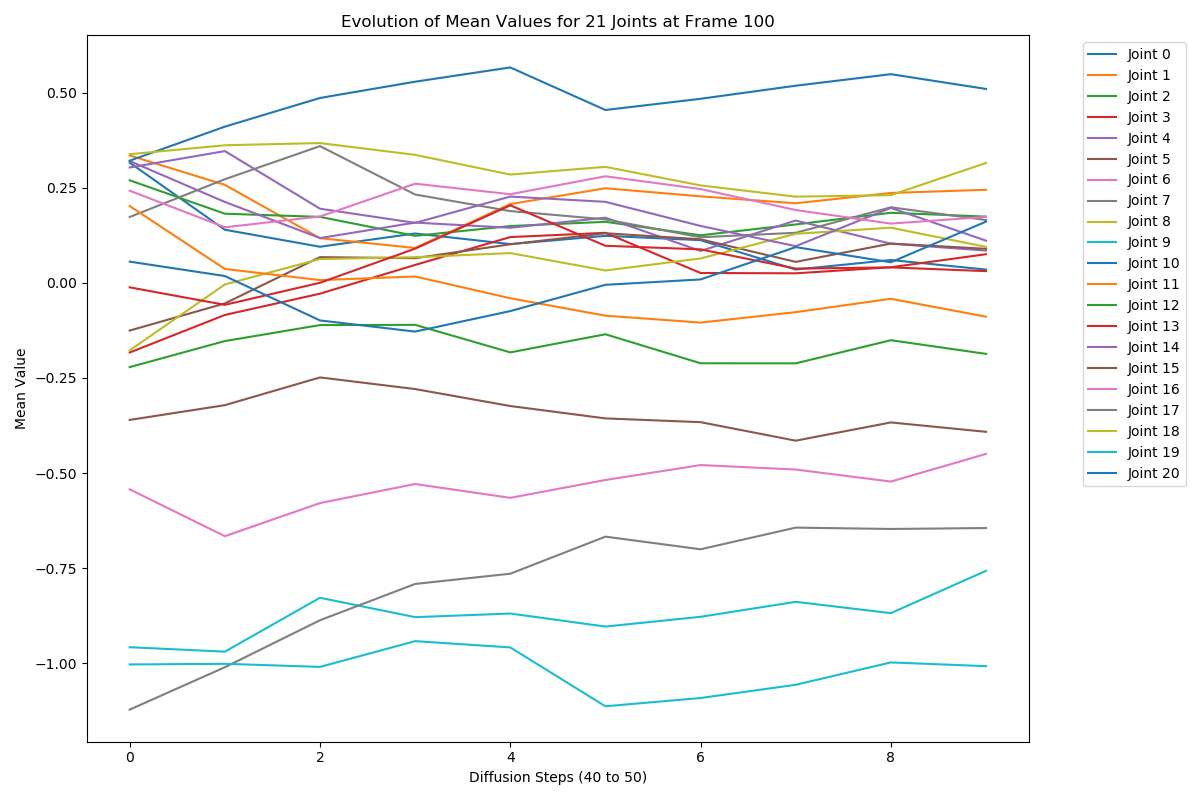
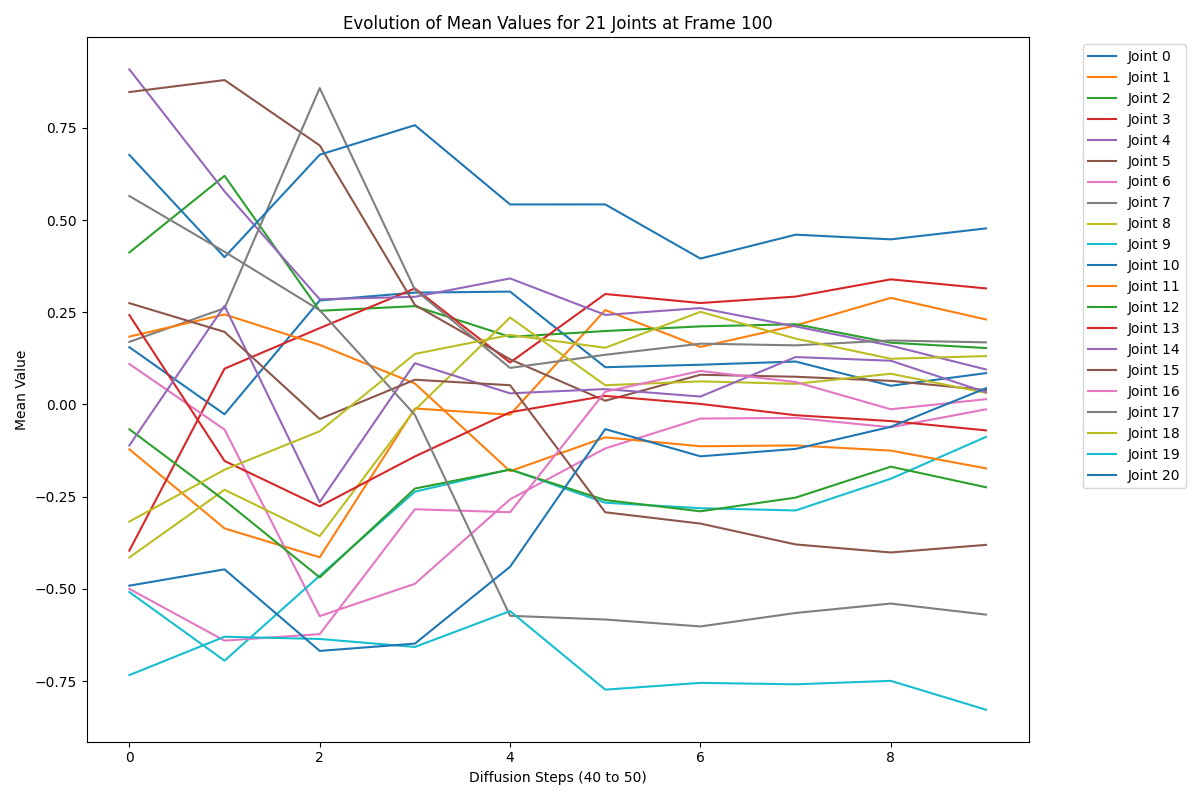
update on mean_fluctuations

diff --git a/sample/generate_w_motion_input.py b/sample/generate_w_motion_input.py
@@ -158,7 +158,7 @@ def main():
         sample_fn = diffusion.p_sample_loop
 
         if args.learning_var:
-            sample, log_variance, mean_fluctuations, log_variance_fluctuations= sample_fn(
+            sample, log_variance, mean_fluctuations= sample_fn(
                 model,
                 (args.batch_size, model.njoints, model.nfeats, max_frames),
                 clip_denoised=False,
@@ -202,30 +202,20 @@ def main():
         if model.data_rep == 'hml_vec':
             n_joints = 22 if sample.shape[1] == 263 else 21 # sample.shape = [bs, 263, 1, 196]
             sample = data.dataset.t2m_dataset.inv_transform(sample.cpu().permute(0, 2, 3, 1)).float() # [bs, 1, 196, 263]
-            data = sample
             sample = recover_from_ric(sample, n_joints) # [bs, 1, 196, 22, 3]
             sample = sample.view(-1, *sample.shape[2:]).permute(0, 2, 3, 1) # [bs, 22, 3, 196]
             if args.learning_var:
-                log_variance = log_variance.cpu().permute(0, 2, 3, 1).float()
-                uncertainty_factor = compute_uncertainty_factor(log_variance, n_joints)
-                print(f"uncertainty_factor shape: {uncertainty_factor.shape}")
-                exit()
-
                 log_variance = data.dataset.t2m_dataset.inv_transform(log_variance.cpu().permute(0, 2, 3, 1)).float() # [bs, 1, 196, 263]
-                log_variance = log_variance[..., 4:(n_joints - 1) * 3 + 4] # [bs, 1, 196, 63]
-                log_variance = log_variance.view(log_variance.shape[:-1] + (-1, 3)) # [bs, 1, 196, 21, 3]
-                # log_variance = recover_from_ric(log_variance, n_joints)
-                log_variance = log_variance.view(-1, *log_variance.shape[2:]).permute(0, 2, 3, 1) # [bs, 21, 3, 196]
-                # print(log_variance)
-                mean_fluctuations = data.dataset.t2m_dataset.inv_transform(mean_fluctuations.cpu().permute(0, 2, 3, 1)).float() # [bs, 1, 196, 263]
-                mean_fluctuations = mean_fluctuations[..., 4:(n_joints - 1) * 3 + 4] # [bs, 1, 196, 63]
-                mean_fluctuations = mean_fluctuations.view(mean_fluctuations.shape[:-1] + (-1, 3)) # [bs, 1, 196, 21, 3]
-                mean_fluctuations = mean_fluctuations.view(-1, *mean_fluctuations.shape[2:]).permute(0, 2, 3, 1) # [bs, 21, 3, 196]
+                uncertainty_factor = compute_uncertainty_factor(log_variance, n_joints) # [bs, 22, 196]
+                # log_variance = log_variance[..., 4:(n_joints - 1) * 3 + 4] # [bs, 1, 196, 63]
+                # log_variance = log_variance.view(log_variance.shape[:-1] + (-1, 3)) # [bs, 1, 196, 21, 3]
+                # log_variance = log_variance.view(-1, *log_variance.shape[2:]).permute(0, 2, 3, 1) # [bs, 21, 3, 196]
 
-                log_variance_fluctuations = data.dataset.t2m_dataset.inv_transform(log_variance_fluctuations.cpu().permute(0, 2, 3, 1)).float() # [bs, 1, 196, 263]
-                log_variance_fluctuations = log_variance_fluctuations[..., 4:(n_joints - 1) * 3 + 4] # [bs, 1, 196, 63]
-                log_variance_fluctuations = log_variance_fluctuations.view(log_variance_fluctuations.shape[:-1] + (-1, 3)) # [bs, 1, 196, 21, 3]
-                log_variance_fluctuations = log_variance_fluctuations.view(-1, *log_variance_fluctuations.shape[2:]).permute(0, 2, 3, 1) # [bs, 21, 3, 196]
+                mean_fluctuations = mean_fluctuations.cpu().permute(0, 2, 3, 1).float() # [bs, 1, 196, 263]
+                uncertainty_factor_1 = compute_uncertainty_factor(mean_fluctuations, n_joints) # [bs, 22, 196]
+                # mean_fluctuations = mean_fluctuations[..., 4:(n_joints - 1) * 3 + 4] # [bs, 1, 196, 63]
+                # mean_fluctuations = mean_fluctuations.view(mean_fluctuations.shape[:-1] + (-1, 3)) # [bs, 1, 196, 21, 3]
+                # mean_fluctuations = mean_fluctuations.view(-1, *mean_fluctuations.shape[2:]).permute(0, 2, 3, 1) # [bs, 21, 3, 196]
 
             input_motions_reshaped = data.dataset.t2m_dataset.inv_transform(input_motions.cpu().permute(0, 2, 3, 1)).float()
             input_motions_reshaped = recover_from_ric(input_motions_reshaped, n_joints)
@@ -303,8 +293,9 @@ def main():
         all_motions.append(sample.cpu().numpy())
         all_lengths.append(model_kwargs['y']['lengths'].cpu().numpy())
         if args.learning_var:
-            all_variances.append(log_variance.cpu().numpy())
-            all_mean_fluctuations.append(mean_fluctuations.cpu().numpy())
+            # all_variances.append(log_variance.cpu().numpy())
+            all_variances.append(uncertainty_factor.cpu().numpy())
+            all_mean_fluctuations.append(uncertainty_factor_1.cpu().numpy())
         print(f"created {len(all_motions) * args.batch_size} samples")
 
     # mpjpe = sum(mean_errors) / len(mean_errors) if mean_errors else float('inf')

diff --git a/diffusion/gaussian_diffusion.py b/diffusion/gaussian_diffusion.py
@@ -680,7 +680,6 @@ class GaussianDiffusion:
         """
         final = None
         means = []
-        log_variances = []
         if dump_steps is not None:
             dump = []
 
@@ -707,42 +706,38 @@ class GaussianDiffusion:
             if dump_steps is not None and i in dump_steps:
                 dump.append(deepcopy(sample["sample"]))
             final = sample
-            if i >= 40:  # Assuming 50 steps in total
+            if i >= 20 and (i % 5 == 0 or i > 45):  # Track every 5th step from 20 to 45, and all steps from 45 onwards
                 means.append(sample["sample"].detach().cpu())
-                log_variances.append(sample["log_variance"].detach().cpu())
-
         if dump_steps is not None:
             return dump
         if self.model_var_type in [ModelVarType.LEARNED, ModelVarType.LEARNED_RANGE]:
-            # Stack collected tensors
             means = torch.stack(means, dim=0)  # Shape: [10, bs, 263, 1, 196]
-            log_variances = torch.stack(log_variances, dim=0)  # Shape: [10, bs, 263, 1, 196]
 
             # UNCOMMENT THIS TO PLOT MEAN EVOLUTION
-            # means = means.cpu().permute(0, 1, 3, 4, 2).float() # [10, bs, 1, 196, 263]
-            # means = means[..., 4:(22 - 1) * 3 + 4] # [10, bs, 1, 196, 63]
-            # means = means.view(means.shape[:-1] + (-1, 3)) # [10, bs, 1, 196, 21, 3]
-            # means = means.view(10, -1, *means.shape[3:]).permute(0, 1, 3, 4, 2) # [10, bs, 21, 3, 196]
-            # means = means.mean(dim=3) # [10, bs, 21, 196]
-            # means_frame_100 = means[:, :, :, 99]  # Shape: [10, bs, 21]
-            # plt.figure(figsize=(12, 8))
-            # for joint in range(21):
-            #     plt.plot(range(10), means_frame_100[:, 0, joint], label=f'Joint {joint}')
-            # plt.xlabel('Diffusion Steps (40 to 50)')
-            # plt.ylabel('Mean Value')
-            # plt.title('Evolution of Mean Values for 21 Joints at Frame 100')
-            # plt.legend(bbox_to_anchor=(1.05, 1), loc='upper left')
-            # plt.tight_layout()
-            # plot_path = 'mean_evolution_plot.png'
-            # plt.savefig(plot_path)
-            # plt.close()
+            means = means.cpu().permute(0, 1, 3, 4, 2).float() # [10, bs, 1, 196, 263]
+            means = means[..., 4:(22 - 1) * 3 + 4] # [10, bs, 1, 196, 63]
+            means = means.view(means.shape[:-1] + (-1, 3)) # [10, bs, 1, 196, 21, 3]
+            means = means.view(10, -1, *means.shape[3:]).permute(0, 1, 3, 4, 2) # [10, bs, 21, 3, 196]
+            means = means.mean(dim=3) # [10, bs, 21, 196]
+            means_frame_100 = means[:, :, :, 99]  # Shape: [10, bs, 21]
+            plt.figure(figsize=(12, 8))
+            for joint in range(21):
+                plt.plot(range(10), means_frame_100[:, 0, joint], label=f'Joint {joint}')
+            plt.xlabel('Diffusion Steps (40 to 50)')
+            plt.ylabel('Mean Value')
+            plt.title('Evolution of Mean Values for 21 Joints at Frame 100')
+            plt.legend(bbox_to_anchor=(1.05, 1), loc='upper left')
+            plt.tight_layout()
+            plot_path = 'mean_evolution_plot.png'
+            plt.savefig(plot_path)
+            plt.close()
+            exit()
 
             # Compute the standard deviation across the first dimension (time steps)
             mean_fluctuations = torch.std(means, dim=0)  # Resulting shape: [bs, 263, 1, 196]
-            log_variance_fluctuations = torch.std(log_variances, dim=0)
             # print('mean_fluctuations', mean_fluctuations.shape) #([10, 263, 1, 196])
             #keep track of the mean AND variance
-            return final["sample"], final["log_variance"], mean_fluctuations, log_variance_fluctuations
+            return final["sample"], final["log_variance"], mean_fluctuations
         else:
             return final["sample"]
 

diff --git a/data_loaders/humanml/utils/plot_script.py b/data_loaders/humanml/utils/plot_script.py
@@ -336,8 +336,7 @@ def plot_3d_motion_with_gt(save_path, kinematic_tree, joints, title, dataset, va
     MAXS = np.maximum(data.max(axis=0).max(axis=0), gt_data.max(axis=0).max(axis=0))
     colors_blue = ["#4D84AA", "#5B9965", "#61CEB9", "#34C1E2", "#80B79A"]
     colors_orange = ["#DD5A37", "#D69E00", "#B75A39", "#FF6D00", "#DDB50E"]
-    # specific_joints_indices = [3, 7, 8, 12, 20, 21]
-    specific_joints_indices = [2, 6, 7, 11, 19, 20]
+    specific_joints_indices = [0, 10, 11, 12, 20, 21]
     colors = colors_orange
     if vis_mode == 'upper_body':
         colors[0] = colors_blue[0]
@@ -368,6 +367,7 @@ def plot_3d_motion_with_gt(save_path, kinematic_tree, joints, title, dataset, va
         return ax.plot_surface(x, y, z, color=color, alpha=alpha)
 
     def update(index):
+        # print(f"index: {index}")    
         ax.view_init(elev=120, azim=-90)
         ax.dist = 8.5
 
@@ -413,25 +413,28 @@ def plot_3d_motion_with_gt(save_path, kinematic_tree, joints, title, dataset, va
             sphere = spheres.pop()
             sphere.remove()
 
-        if variance is not None:
-            for joint_idx in specific_joints_indices:
-                joint_position = data[index, joint_idx+1]
-                joint_variance = np.exp(0.5*np.mean(variance[index, joint_idx]))
-                # joint_variance_exp = np.exp(joint_variance) * 0.47
-                joint_variance_exp = np.exp(joint_variance) * 0.3
-                joint_variance_transformed = joint_variance_exp ** 8  # You can experiment with different powers or transformations
-                radius = joint_variance_transformed / 3
-                # radius = joint_variance / 3
-                sphere = draw_sphere(joint_position, radius, color='c', alpha=0.1)
-                spheres.append(sphere)
-
         # if variance is not None:
         #     for joint_idx in specific_joints_indices:
         #         joint_position = data[index, joint_idx+1]
-        #         joint_variance = np.exp(0.5*np.mean(variance[index, joint_idx]))
-        #         radius = joint_variance / 3
+        #         # joint_variance = np.exp(0.5*np.mean(variance[index, joint_idx]))
+        #         joint_variance = np.exp(0.5*variance[joint_idx, 0, index])
+        #         joint_variance_exp = np.exp(joint_variance) * 0.47
+        #         # joint_variance_exp = np.exp(joint_variance) * 0.3
+        #         joint_variance_transformed = joint_variance_exp ** 8  # You can experiment with different powers or transformations
+        #         radius = joint_variance_transformed / 3
+        #         # radius = joint_variance / 3
         #         sphere = draw_sphere(joint_position, radius, color='c', alpha=0.1)
         #         spheres.append(sphere)
+
+        if variance is not None:
+            for joint_idx in specific_joints_indices:
+                joint_position = data[index, joint_idx]
+                # joint_variance = np.exp(0.5*np.mean(variance[index, joint_idx]))
+                # joint_variance = np.exp(0.5*variance[joint_idx, 0, index])
+                joint_variance = 0.3*variance[joint_idx, 0, index]
+                radius = joint_variance / 3
+                sphere = draw_sphere(joint_position, radius, color='c', alpha=0.1)
+                spheres.append(sphere)
 
     ani = FuncAnimation(fig, update, frames=frame_number, interval=1000 / fps, repeat=False)
 

diff --git a/data_loaders/humanml/scripts/motion_process.py b/data_loaders/humanml/scripts/motion_process.py
@@ -450,7 +450,7 @@ def compute_uncertainty_factor(log_variance, n_joints=22):
     root_local_velocity = log_variance[..., -n_joints*3-8:-n_joints*3-5]  # [bs, 1, 196, 3] for root
 
     # Sum and normalize root joint features (7 features total)
-    root_uncertainty = (root_rot_velocity + torch.sum(root_linear_velocity, dim=-1) + root_y + torch.sum(root_local_velocity, dim=-1)) / 7  # [bs, 1, 196]
+    root_uncertainty = root_rot_velocity + torch.sum(root_linear_velocity, dim=-1) + root_y + torch.sum(root_local_velocity, dim=-1)  # [bs, 1, 196]
 
     # 21 joints with 12 features each (3 positions, 6 rotations, 3 velocities)
     joint_pos = log_variance[..., 4:4 + (n_joints - 1) * 3].view(-1, 1, 196, n_joints - 1, 3)  # [bs, 1, 196, 21, 3]
@@ -458,10 +458,10 @@ def compute_uncertainty_factor(log_variance, n_joints=22):
     joint_vel = log_variance[..., 7 + (n_joints - 1) * 9:7 + (n_joints - 1) * 12].view(-1, 1, 196, n_joints - 1, 3)  # [bs, 1, 196, 21, 3]
 
     # Sum and normalize joint features (12 features per joint)
-    joint_uncertainty = (torch.sum(joint_pos, dim=-1) + torch.sum(joint_rot, dim=-1) + torch.sum(joint_vel, dim=-1)) / 12  # [bs, 1, 196, 21]
+    joint_uncertainty = torch.sum(joint_pos, dim=-1) + torch.sum(joint_rot, dim=-1) + torch.sum(joint_vel, dim=-1)  # [bs, 1, 196, 21]
 
     # Step 3: Concatenate root and joint uncertainties
-    uncertain_factor = torch.cat([root_uncertainty.unsqueeze(-1), joint_uncertainty], dim=-1)  # [bs, 22, 196]
+    uncertain_factor = torch.cat([root_uncertainty.unsqueeze(-1), joint_uncertainty], dim=-1)  # [bs, 1, 196, 22]
 
     return uncertain_factor
 

diff --git a/utils/model_util.py b/utils/model_util.py
@@ -50,7 +50,7 @@ def get_model_args(args, data):
 
 def create_gaussian_diffusion(args):
     # default params
-    predict_xstart = True  # we always predict x_start (a.k.a. x0), that's our deal!
+    predict_xstart = True  # we always predict x_start (a.k.a. x0)
     steps = args.diffusion_steps
     scale_beta = 1.  # no scaling
     timestep_respacing = ''  # can be used for ddim sampling, we don't use it. -> check how to use it
